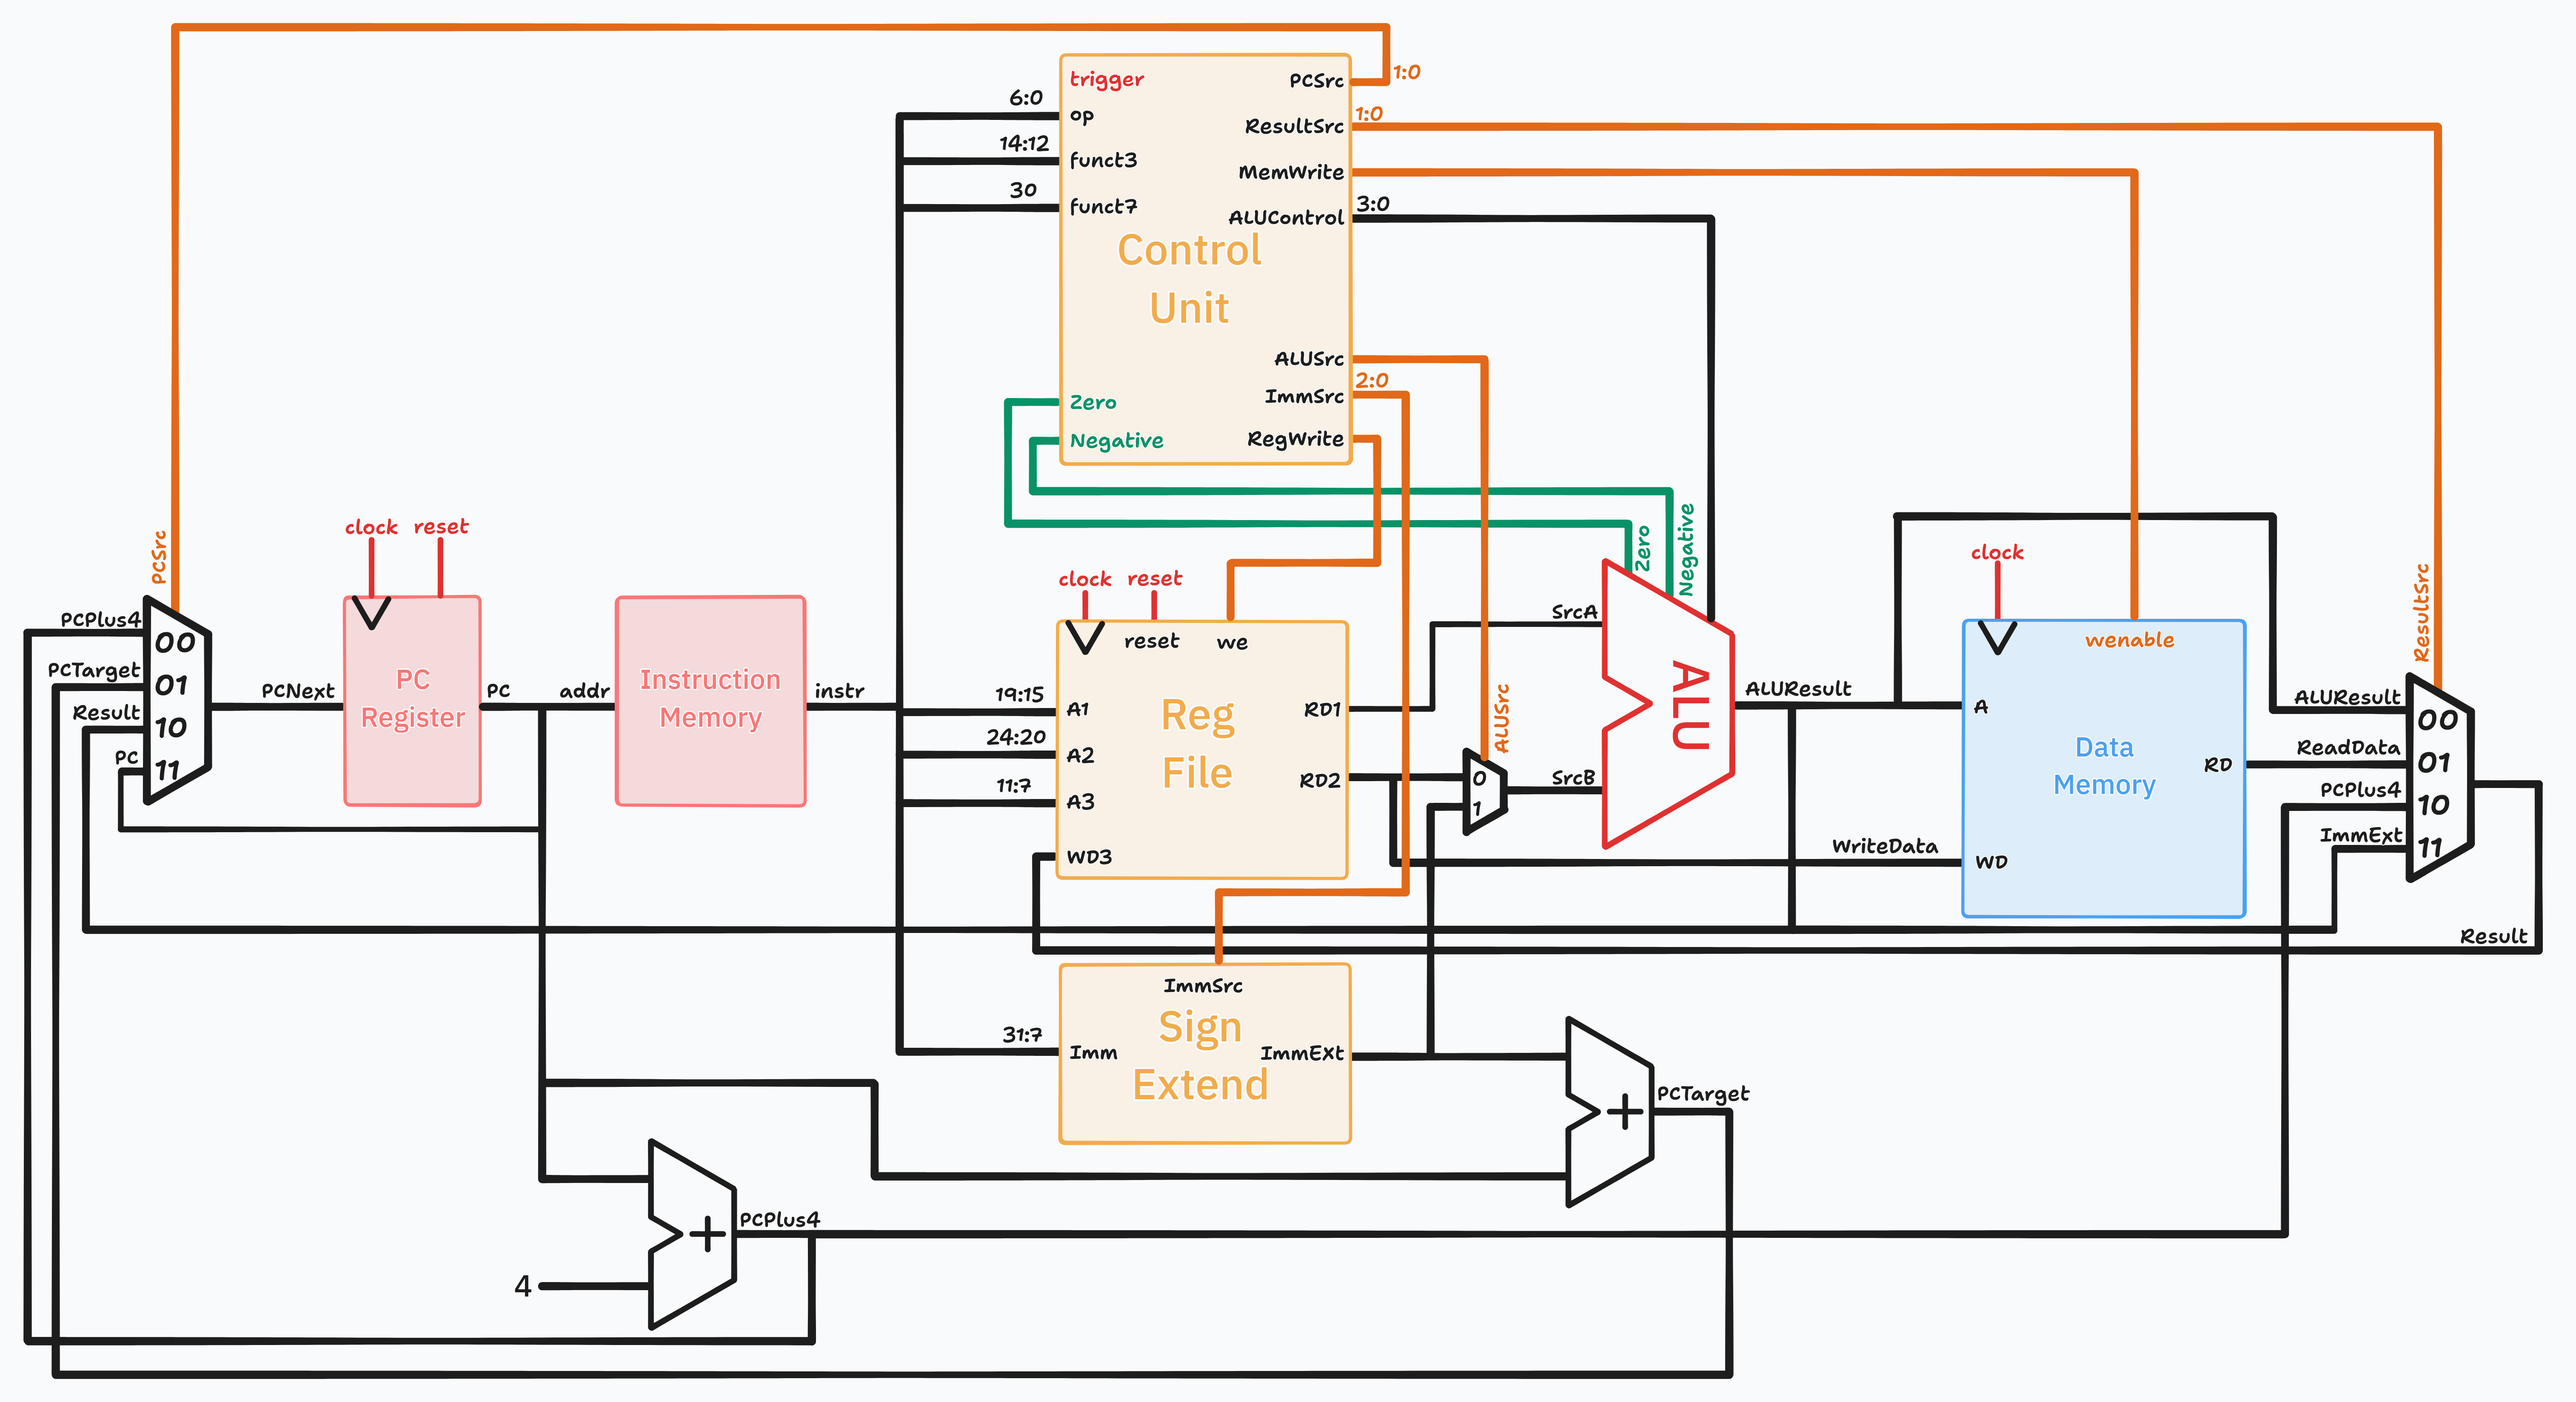
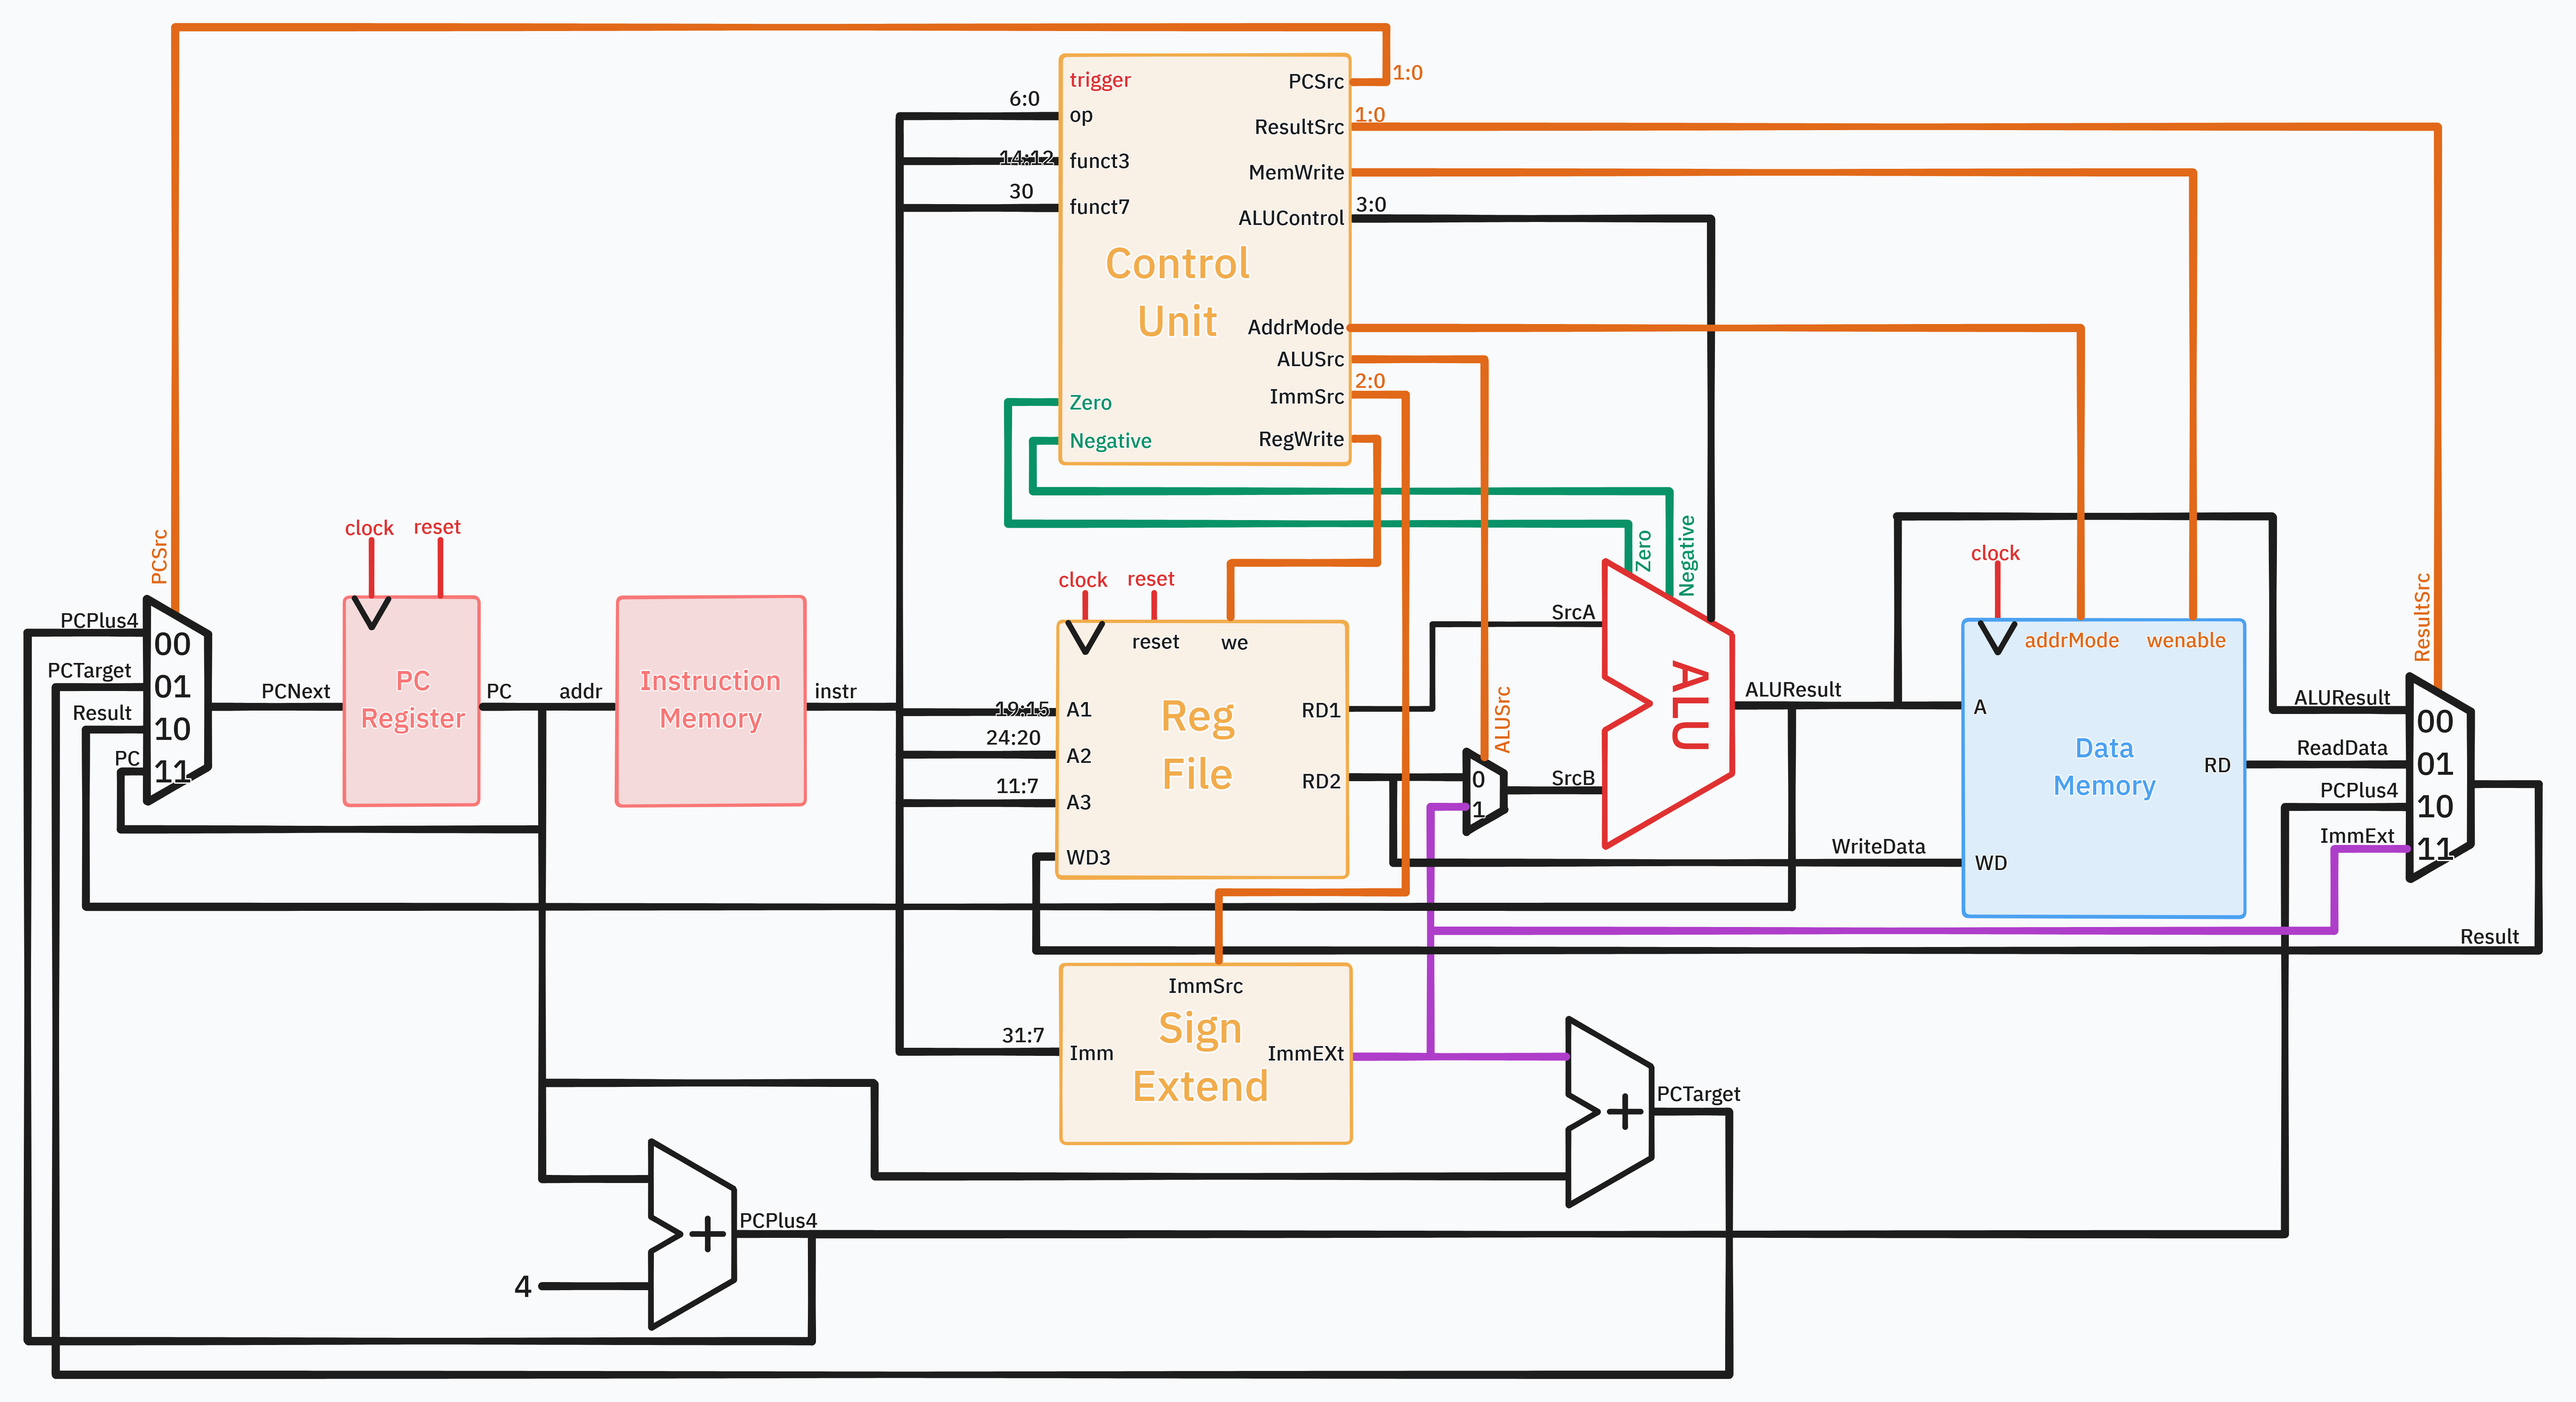
Updated schematics

diff --git a/statements/ParthaKhanna.md b/statements/ParthaKhanna.md
@@ -5,12 +5,9 @@
 This document provides a comprehensive overview of my contributions to the RISC-V project. It outlines the completed work, the methodologies employed, the rationale behind key design decisions, the strategies used to address challenges, any mistakes encountered along the way and their subsequent resolution, as well as the insights and lessons learned from this experience.
 # Pending tasks
 - [ ] Check all links
-- [ ] Add images where needed
-- [ ] Complete RISC-V section
 - [ ] Learning section
 - [ ] F1 Assembly
-- [ ] Update single cycle diagram to include loading and storing
-- [ ] Update superscalar diagram with no 4/8
+- [ ] Place all images in my own folder
 
 ---
 ## Overview
